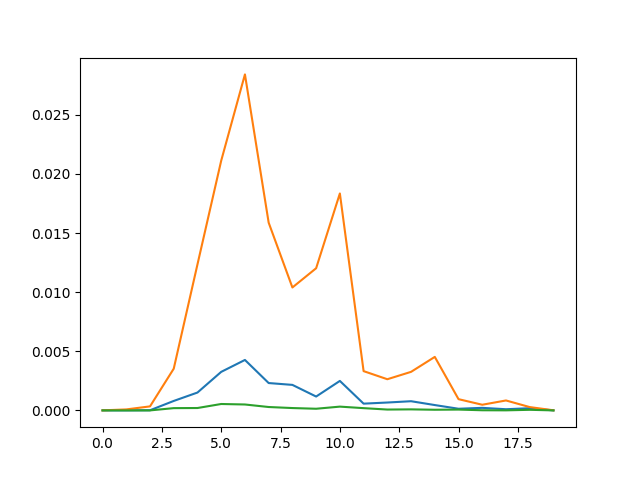
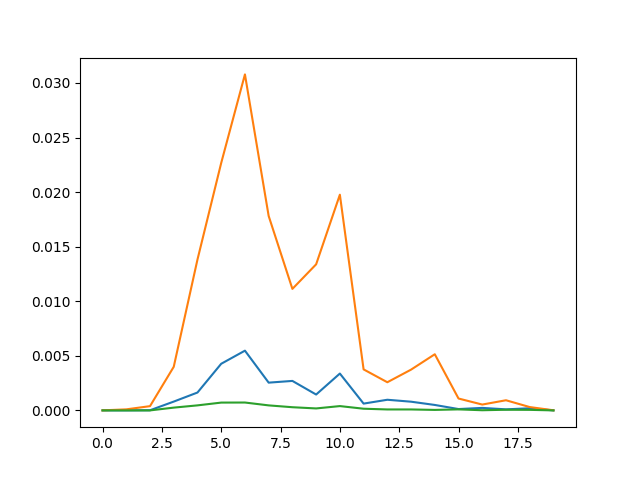
centroid of every feature plotted

diff --git a/code/dtw/dtw_exp.py b/code/dtw/dtw_exp.py
@@ -27,24 +27,6 @@ def DTWDistance(s1, s2):
     return math.sqrt(DTW[len(s1)-1, len(s2)-1])
 
 
-# def DTWDistance(s1, s2, w):
-#     DTW={}
-#
-#     w = max(w, abs(len(s1)-len(s2)))
-#
-#     for i in range(-1,len(s1)):
-#         for j in range(-1,len(s2)):
-#             DTW[(i, j)] = float('inf')
-#     DTW[(-1, -1)] = 0
-#
-#     for i in range(len(s1)):
-#         for j in range(max(0, i-w), min(len(s2), i+w)):
-#             dist= (s1[i]-s2[j])**2
-#             DTW[(i, j)] = dist + min(DTW[(i-1, j)],DTW[(i, j-1)], DTW[(i-1, j-1)])
-#
-#     return math.sqrt(DTW[len(s1)-1, len(s2)-1])
-
-
 def LB_Keogh(s1,s2,r):
     LB_sum=0
     for ind,i in enumerate(s1):
@@ -113,42 +95,7 @@ def bin_based_on_score(score):
         return 2
 
 
-def cluster(num_clust, num_iter, w=5):
-    feature, duration, mmtoc, phrasecloud, search_query = read_data()
-    data = [item[2:] for item in feature]
-    centroids, assignments = k_means_clust(data, num_clust, num_iter, w)
-
-    distribution = {}
-
-    for key in assignments:
-        distribution[key] = {}
-        # print key, assignments[key]
-        for user in assignments[key]:
-            bin = bin_based_on_score(feature[user][1])
-            print bin
-            if bin in distribution[key]:
-                distribution[key][bin] += 1
-            else:
-                distribution[key][bin] = 1
-
-    # for cluster in assignments:
-    #     distribution[cluster] = []
-    #     for user in assignments[cluster]:
-    #         distribution[cluster].append(feature[user][1])
-    #
-    # count = 0
-    # for cluster in distribution:
-    #     plt.hist(distribution[cluster], normed=True, bins=100)
-    #     plt.savefig("histogram_" + str(count) + ".png")
-    #     plt.clf()
-    #     count += 1
-
-    for key in distribution:
-        print "cluster id ", key
-        for category in distribution[key]:
-            print category, distribution[key][category]
-        print "\n\n"
-
+def plot_visualization(centroids, assignments, feature, duration, mmtoc, phrasecloud, search_query):
     for key in assignments:
         for i in assignments[key]:
             plt.title('No of user: %.2f' % (len(assignments[key])))
@@ -180,6 +127,71 @@ def cluster(num_clust, num_iter, w=5):
     plt.savefig("cluster_centroid.png")
     # plt.show()
     plt.clf()
+
+
+def add_lists(l1, l2):
+    return map(sum, zip(l1, l2))
+
+
+def multiply_scalar_vector(wt, vec):
+    return [i * wt for i in vec]
+
+
+def cluster(num_clust, num_iter, w=5):
+    feature, duration, mmtoc, phrasecloud, search_query = read_data()
+    data = [item[2:] for item in feature]
+    centroids, assignments = k_means_clust(data, num_clust, num_iter, w)
+
+    distribution = {}
+
+    for key in assignments:
+        distribution[key] = {}
+        # print key, assignments[key]
+        for user in assignments[key]:
+            bin = bin_based_on_score(feature[user][1])
+            # print bin
+            if bin in distribution[key]:
+                distribution[key][bin] += 1
+            else:
+                distribution[key][bin] = 1
+
+    # for key in distribution:
+    #     print "cluster id ", key
+    #     for category in distribution[key]:
+    #         print category, distribution[key][category]
+    #     print "\n\n"
+
+    for key in assignments:
+        lst = phrasecloud[assignments[key][0]][2:]
+        for i in range(1, len(assignments[key])):
+            lst = add_lists(lst, phrasecloud[assignments[key][i]][2:])
+
+        lst = multiply_scalar_vector(0.5, lst)
+        plt.plot(lst)
+    plt.savefig("./centroids/phrasecloud.png")
+    plt.clf()
+
+    for key in assignments:
+        lst = mmtoc[assignments[key][0]][2:]
+        for i in range(1, len(assignments[key])):
+            lst = add_lists(lst, mmtoc[assignments[key][i]][2:])
+
+        lst = multiply_scalar_vector(0.5, lst)
+        plt.plot(lst)
+    plt.savefig("./centroids/mmtoc.png")
+    plt.clf()
+
+    for key in assignments:
+        lst = search_query[assignments[key][0]][2:]
+        for i in range(1, len(assignments[key])):
+            lst = add_lists(lst, search_query[assignments[key][i]][2:])
+
+        lst = multiply_scalar_vector(0.5, lst)
+        plt.plot(lst)
+    plt.savefig("./centroids/searchquery.png")
+    plt.clf()
+
+    # plot_visualization(centroids, assignments, feature, duration, mmtoc, phrasecloud, search_query)
 
 
 def read_data():
